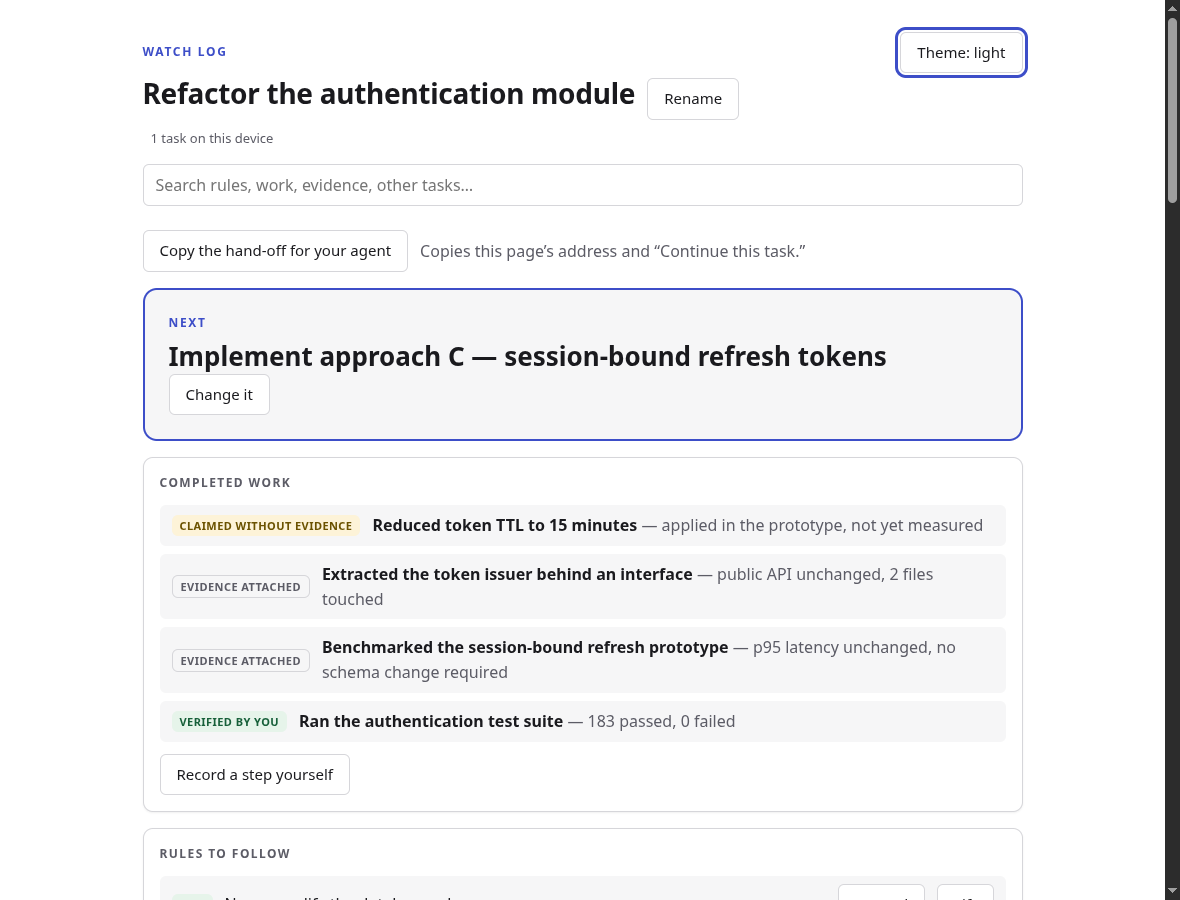
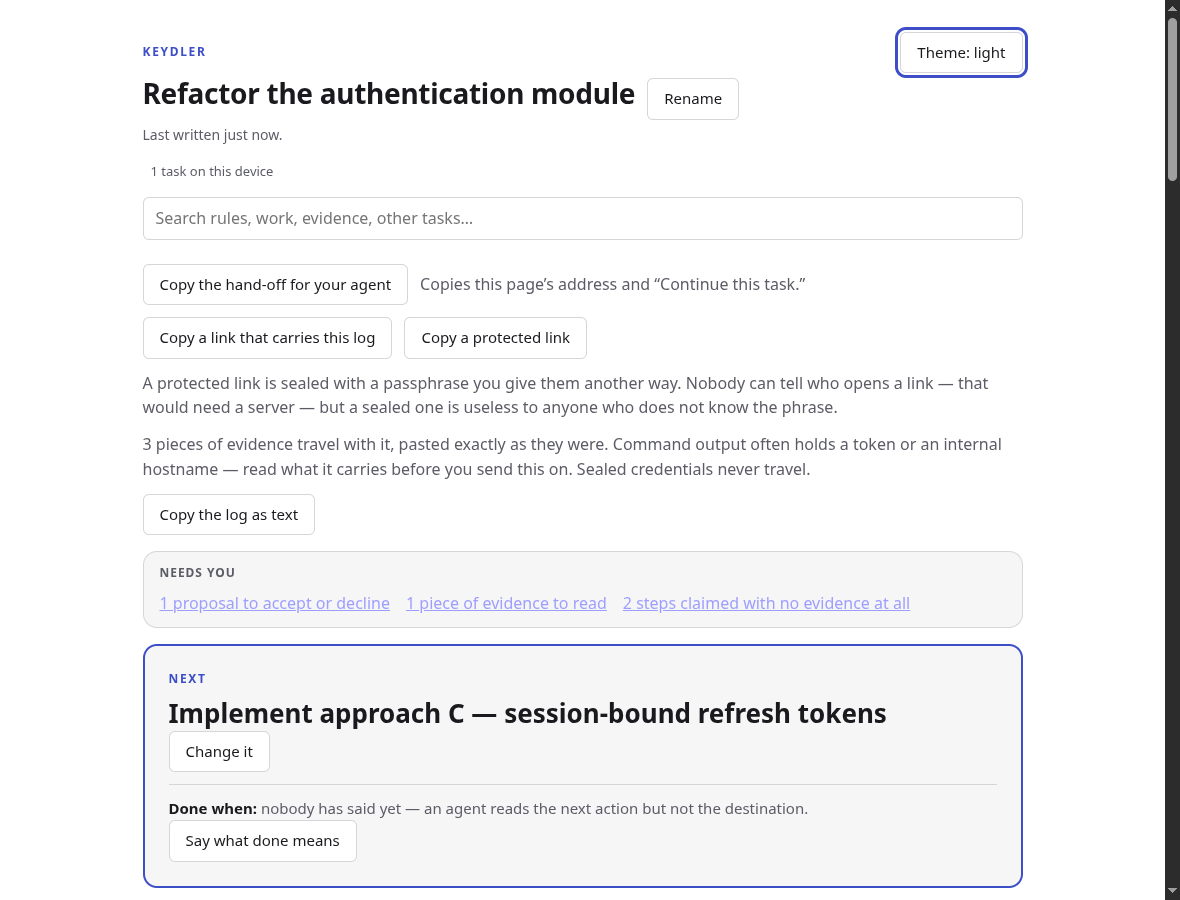
Fix what the rename audit caught, including two things I got wrong
Four agents audited the Keydler rename. Two of their charges were
against my own work and both were correct.

I falsified the journal. The blind replacement rewrote observations: a
28 August entry had a page titled "Keydler — a shared memory…" when it
still carried the old name that day, plus four French sentences turned
into "le Keydler". That is exactly the rule I had applied to
chrome-watch-log and the /tmp/watch-log-agent paths — do not rewrite a
recorded observation — and had not applied here. Pre-29-August entries
quote the observed strings again, with a clause dating the name.

And nine README screenshots still showed the dead brand. Confirmed by
opening shared-link.png: "WATCH LOG" as the eyebrow, "The Watch Log
keeps…" in the lede, "A SHARED WATCH LOG" as a card title — three hits
in one image, under a caption that now reads "A shared log". The rename
commit touched no image files. All nine retaken in Brave at 1180x900 to
match; the four card crops with no brand were checked and left.

Five more fixes. The production build was silent when the origin-trial
token was missing, so a misspelled host variable would ship a site
where document.modelContext never exists with every check green; it now
fails, with an escape hatch for CI. durability.ts claimed "This log
takes N" for a figure that is origin-wide — the rename turned a vague
sentence into a false one. package.json still described the project in
[…]

diff --git a/vite.config.ts b/vite.config.ts
@@ -1,9 +1,29 @@
 import { loadEnv, type Plugin } from 'vite'
 import { defineConfig } from 'vitest/config'
 
-function originTrialMeta(token: string | undefined): Plugin {
+/**
+ * Sans jeton, le greffon ne faisait rien — silencieusement. Une variable
+ * d'environnement mal orthographiée chez l'hébergeur produisait donc un site
+ * d'apparence saine où `document.modelContext` n'existe jamais, et où la seule
+ * chose que voit un juge est « WebMCP is not available in this browser ».
+ * Toutes les vérifications restaient vertes.
+ *
+ * Un jeton d'origin trial n'est pas un secret : il est imprimé tel quel dans
+ * le HTML servi. Le taire n'apportait rien ; échouer fort apporte tout.
+ */
+function originTrialMeta(token: string | undefined, production: boolean): Plugin {
   return {
     name: 'webmcp-origin-trial',
+    buildStart() {
+      if (production && !token) {
+        this.error(
+          'VITE_WEBMCP_ORIGIN_TRIAL_TOKEN est vide pour une construction de production.\n' +
+            'Sans lui, WebMCP ne s’active que derrière chrome://flags, et rien ne le dira.\n' +
+            'Enregistrez le jeton pour l’origine exacte servie, ou construisez avec\n' +
+            'ALLOW_NO_ORIGIN_TRIAL=1 si c’est délibéré.',
+        )
+      }
+    },
     transformIndexHtml(html) {
       if (!token) return html
       const sûr = token.replace(/&/g, '&amp;').replace(/"/g, '&quot;').replace(/</g, '&lt;')
@@ -20,7 +40,12 @@ export default defineConfig(({ mode }) => {
   const env = loadEnv(mode, process.cwd(), 'VITE_')
 
   return {
-    plugins: [originTrialMeta(env.VITE_WEBMCP_ORIGIN_TRIAL_TOKEN)],
+    plugins: [
+      originTrialMeta(
+        env.VITE_WEBMCP_ORIGIN_TRIAL_TOKEN,
+        mode === 'production' && process.env.ALLOW_NO_ORIGIN_TRIAL !== '1',
+      ),
+    ],
     build: {
       target: 'es2022',
       // Jamais par défaut : `npm run build` est ce que les hébergeurs

diff --git a/index.html b/index.html
@@ -6,6 +6,21 @@
     <title>Keydler — a shared memory for you and your AI</title>
     <meta
       name="description"
+      content="Keydler keeps completed work, rules to follow, and mistakes not to repeat, and exposes them to your agent over WebMCP. Browser-local: no account, no server."
+    />
+    <link rel="canonical" href="https://keydler.com/" />
+    <meta property="og:type" content="website" />
+    <meta property="og:site_name" content="Keydler" />
+    <meta property="og:title" content="Keydler — a shared memory for you and your AI" />
+    <meta
+      property="og:description"
+      content="Completed work, rules to follow, and mistakes not to repeat — read and written by your agent over WebMCP, and supervised by you. Nothing leaves the browser."
+    />
+    <meta property="og:url" content="https://keydler.com/" />
+    <meta property="og:image" content="https://keydler.com/og.png" />
+    <meta name="twitter:card" content="summary_large_image" />
+    <meta
+      name="description"
       content="A shared, supervised task memory for you and your AI, exposed to agents through WebMCP."
     />
     <link rel="manifest" href="/manifest.webmanifest" />

diff --git a/src/domain/render.ts b/src/domain/render.ts
@@ -441,7 +441,7 @@ export function renderNoTask(): string {
   return [
     'NO ACTIVE TASK',
     '',
-    'This device holds no log yet, so there is nothing to resume.',
+    'This device holds no task yet, so there is nothing to resume.',
     'Every write tool on this page will refuse until one exists.',
     'Ask the human to open a task in the dashboard, then call resume_task again.',
   ].join('\n')
@@ -452,7 +452,7 @@ export function renderMissingTask(taskId: string): string {
     'TASK NOT FOUND',
     '',
     `This page is bound to task ${taskId}, which no longer exists on this device.`,
-    'Another log may be open elsewhere, but it is NOT this task and has not',
+    'Another task may be open elsewhere, but it is NOT this one and has not',
     'been substituted for it. Do not resume work from memory.',
     'Ask the human which task to open, then call resume_task again.',
   ].join('\n')

diff --git a/src/persistence/durability.ts b/src/persistence/durability.ts
@@ -47,7 +47,8 @@ export function humanSize(bytes: number): string {
 }
 
 export function describeStorage(state: StorageState): string {
-  const place = state.usage === null ? '' : ` This log takes ${humanSize(state.usage)}.`
+  const place =
+    state.usage === null ? '' : ` Everything this site stores here takes ${humanSize(state.usage)}.`
 
   if (state.persisted === null) {
     return `This browser cannot say whether it will keep the data here.${place}`

diff --git a/src/ui/bench.ts b/src/ui/bench.ts
@@ -947,7 +947,7 @@ function renderSwitcher(task: TaskState): string {
               : ''
           }
           <input id="import-file" type="file" accept=".md,.markdown,.json,text/markdown"
-                 aria-label="Choose a log file to import" hidden />
+                 aria-label="Choose an exported task file to import" hidden />
         </div>
       </div>
     </details>`

diff --git a/docs/journal-tests.md b/docs/journal-tests.md
@@ -347,7 +347,7 @@ historique de la tâche. Consigne exacte et unique : `Continue this task.`
 **Environnement observé.** Claude Desktop 2.1.234, réponse finale par Opus 4.8.
 L'interface a d'abord affiché un blocage de classification « cyber », puis a
 basculé vers Opus 4.8. La session contenait une mémoire générale mentionnant
-d'autres projets, mais aucune information sur la tâche Keydler.
+d'autres projets, mais aucune information sur la tâche en cours.
 
 La trace de session confirme que les outils du pont étaient disponibles au
 modèle, notamment `mcp__chrome-watch-log__list_pages`,
@@ -379,7 +379,7 @@ intègre WebMCP directement, sans cette couche CDP intermédiaire.
 comme déterministe. Un nouvel essai doit conserver la même consigne, vérifier
 la connexion du pont avant envoi et relever le premier outil appelé. Si le
 choix reste instable, la vidéo doit montrer l'échec ou demander explicitement à
-l'agent de consulter le Keydler.
+l'agent de consulter la page.
 
 ### Suite de la même session après répétition de la consigne : **INVALIDE POUR R1**
 
@@ -423,7 +423,7 @@ n'apporte aucun contexte sur la tâche. Consigne exacte :
 
 1. deux recherches d'outils fichiers, sans résultat utilisable ;
 2. recherche de `list_pages`, puis appel de `list_pages` ;
-3. lecture d'un instantané de la page Keydler ;
+3. lecture d'un instantané de la page ;
 4. découverte de `list_webmcp_tools` et `execute_webmcp_tool` ;
 5. appel de `resume_task` **avant toute production ou mutation**.
 
@@ -478,8 +478,9 @@ commande locale `/effort max`.
 
 1. deux recherches d'outils fichiers, sans résultat utilisable ;
 2. découverte et appel de `list_pages` ;
-3. restitution de la page sélectionnée, intitulée « Keydler — a shared
-   memory for you and your AI », à l'URL de la tâche ;
+3. restitution de la page sélectionnée, intitulée « Watch Log — a shared
+   memory for you and your AI » — le produit portait encore ce nom à la date
+   de ce relevé —, à l'URL de la tâche ;
 4. arrêt de la découverte : aucun `list_webmcp_tools`, aucun `resume_task` ;
 5. demande à l'humain de préciser le travail à effectuer.
 
@@ -498,7 +499,7 @@ locale et le message utilisateur envoyé vingt secondes plus tard.
 | R5   | travail non accompli inventé                      | **non**  |
 
 **Conclusion.** **ÉCHEC de sélection spontanée malgré la découverte de la
-page.** L'agent savait qu'un Keydler était ouvert et que seuls les outils du
+page.** L'agent savait qu'une page de cahier était ouverte et que seuls les outils du
 pont navigateur étaient disponibles, mais il n'a pas cherché les outils WebMCP
 de la page.
 
@@ -1657,6 +1658,13 @@ Keydler » là où la phrase disait « a readable watch log ». Trois tournures 
 dû être reprises à la main après coup — « The Keydler takes… » se lit mal pour
 un nom propre.
 
+**Une falsification, corrigée.** Le renommage a d'abord réécrit des
+OBSERVATIONS antérieures : une entrée du 28 août faisait dire à une page
+qu'elle s'intitulait « Keydler — … », alors qu'elle portait encore l'ancien
+nom. Un audit l'a relevé. Les relevés antérieurs au 29 août citent de nouveau
+les chaînes réellement observées ; c'est la même règle que pour
+`chrome-watch-log`, et je l'avais appliquée là et pas ici.
+
 **Ce qui n'a PAS été renommé, et pourquoi.** Trois clés persistées :
 
 | Clé               | Où                                     | Conséquence d'un renommage                                     |
@@ -1672,3 +1680,58 @@ Le nom du serveur MCP `chrome-watch-log` et les répertoires
 `/tmp/watch-log-agent.*` cités dans les protocoles de mesure ne sont pas non
 plus renommés : ce sont des faits de l'environnement de mesure, pas le nom du
 produit, et les réécrire fausserait le protocole.
+
+## 29 août 2026 — l'audit du renommage, et ce qu'il m'a repris
+
+Quatre agents en parallèle sur le renommage. Deux de leurs reproches visaient
+mon propre travail, et les deux étaient fondés.
+
+### J'avais falsifié le journal
+
+Le remplacement aveugle a réécrit des **observations** : une entrée du 28 août
+faisait dire à une page qu'elle s'intitulait « Keydler — a shared memory… »,
+alors qu'elle portait encore l'ancien nom ce jour-là. Quatre autres tournures
+françaises étaient devenues « le Keydler », « un Keydler ».
+
+C'est exactement la règle que j'avais appliquée pour `chrome-watch-log` et les
+répertoires `/tmp/watch-log-agent` — ne pas réécrire un fait d'observation — et
+que je n'avais pas appliquée ici. Les relevés antérieurs au 29 août citent de
+nouveau les chaînes réellement observées, avec une incise qui date le nom.
+
+### Neuf captures d'écran montraient encore l'ancien nom
+
+Vérifié en ouvrant `docs/assets/shared-link.png` : « WATCH LOG » en exergue,
+« The Watch Log keeps… » dans l'accroche, « A SHARED WATCH LOG » en titre de
+carte — trois fois dans une seule image, sous une légende qui dit désormais
+« A shared log ». Le commit de renommage n'avait touché aucun fichier image.
+
+Les neuf ont été reprises dans Brave, à 1180 × 900 comme les originales
+(`active-task` en pleine page). Les quatre autres — `activity`, `credentials`,
+`disputed-step`, `human-intervention` — sont des recadrages de carte sans
+exergue ; vérifié en ouvrant `human-intervention.png`, elles n'avaient rien à
+reprendre.
+
+### Cinq autres correctifs
+
+- **La construction de production se taisait sans jeton d'origin trial.** Une
+  variable mal orthographiée chez l'hébergeur produisait un site d'apparence
+  saine où `document.modelContext` n'existe jamais, et toutes les vérifications
+  restaient vertes. Elle échoue désormais, avec `ALLOW_NO_ORIGIN_TRIAL=1` comme
+  échappatoire pour la vérification locale et l'intégration continue — c'est la
+  construction de déploiement qui doit prouver que le jeton est arrivé.
+- **`durability.ts` annonçait « This log takes … »** pour un chiffre qui vient
+  de `navigator.storage.estimate()`, donc de TOUTE l'origine : tous les
+  cahiers, le coffre, le cache du service worker. Le renommage avait transformé
+  une phrase vague en phrase fausse. Corrigé en « Everything this site stores
+  here takes … ».
+- **`package.json`** portait encore une description en français avec l'ancien
+  nom — invisible à une recherche sur « watch », et le dépôt part public.
+- **Deux chaînes lues par un agent** disaient « log » là où « task » portait le
+  sens : « This device holds no log yet » sous un en-tête `NO ACTIVE TASK`, et
+  « Another log may be open elsewhere, but it is NOT this task » qui compare un
+  journal à une tâche dans le message dont le seul rôle est d'empêcher un agent
+  de reprendre le mauvais travail.
+- **Aucune balise sociale ni canonique.** La réécriture SPA rend 200 sur
+  n'importe quel chemin : sans canonique, chaque URL inventée est un doublon
+  indexable. Ajoutées, avec `keydler.com` comme origine — le seul endroit du
+  dépôt où une URL absolue est juste plutôt qu'une supposition d'hôte.

diff --git a/README.md b/README.md
@@ -180,7 +180,7 @@ agent must read in order to choose, so each has to pay for itself.
 
 An agent often needs to know that a secret _exists_ — which one, and what it is
 for — without ever seeing it. Any secret, not just an API key: tokens,
-passwords, connection strings, webhook URLs, private keys, certificates. The
+passwords, connection strings, webhook URLs, private keys, certificates.
 Keydler holds the reference:
 
 ```
